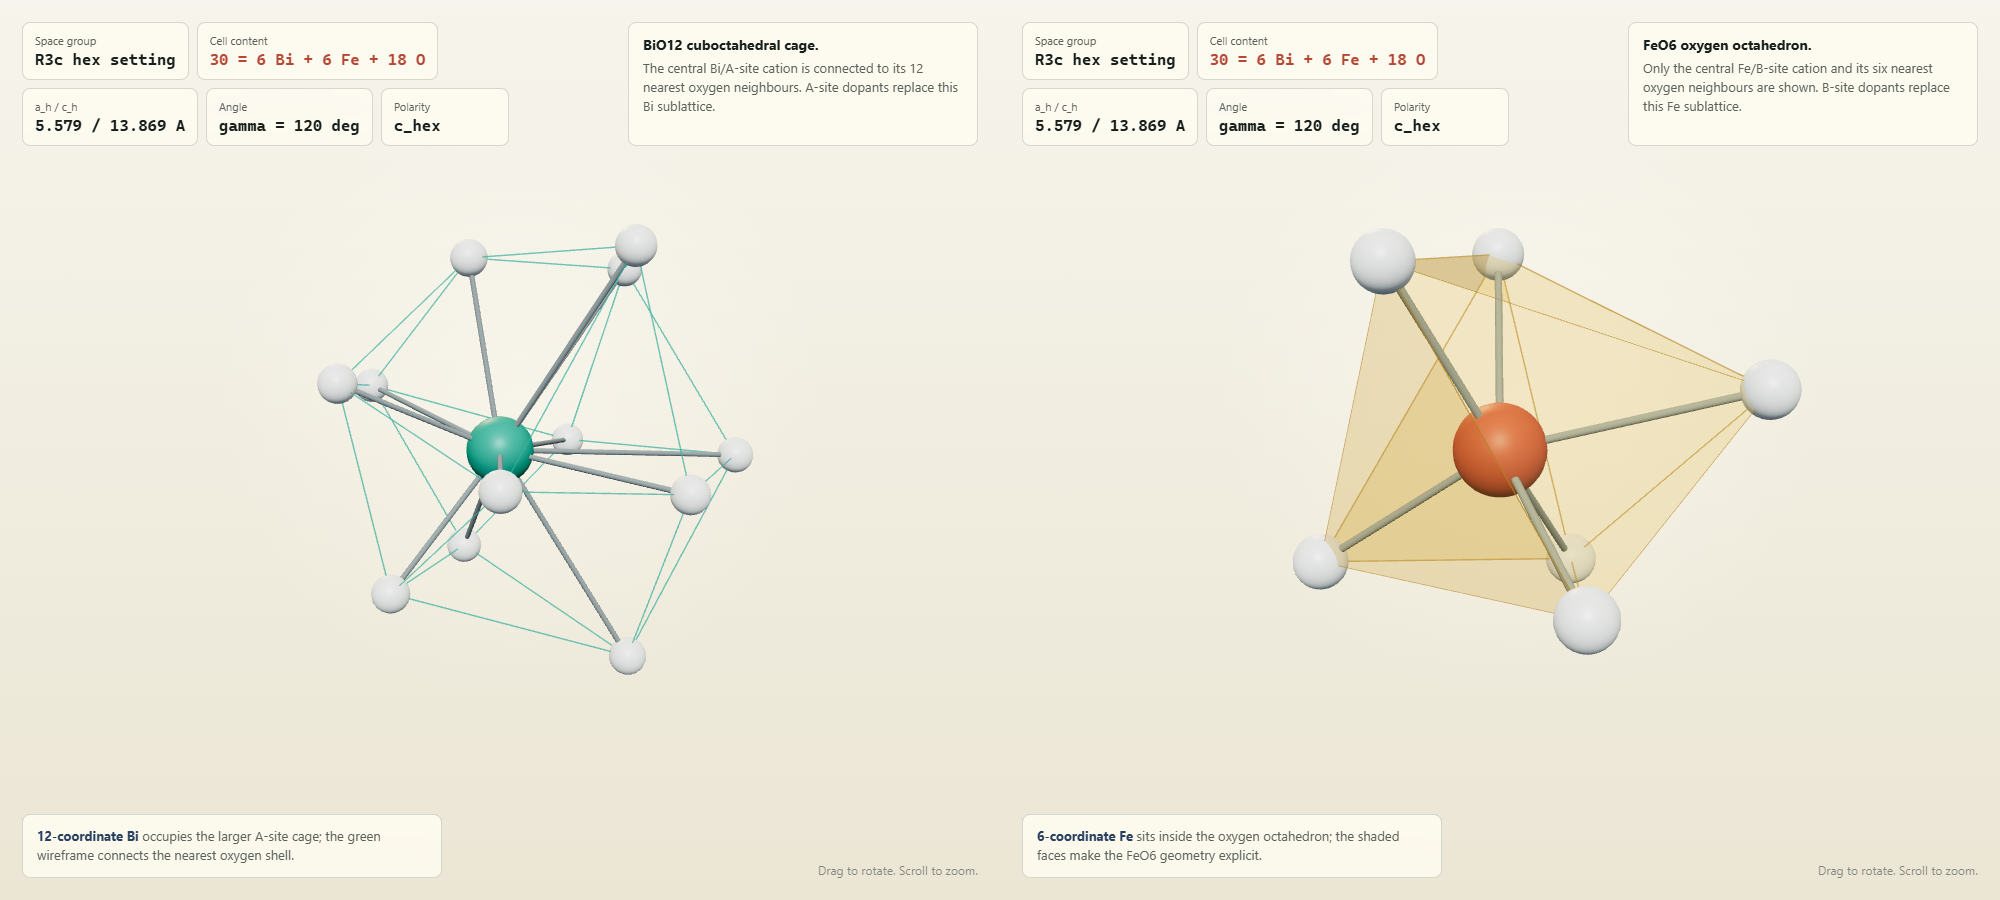
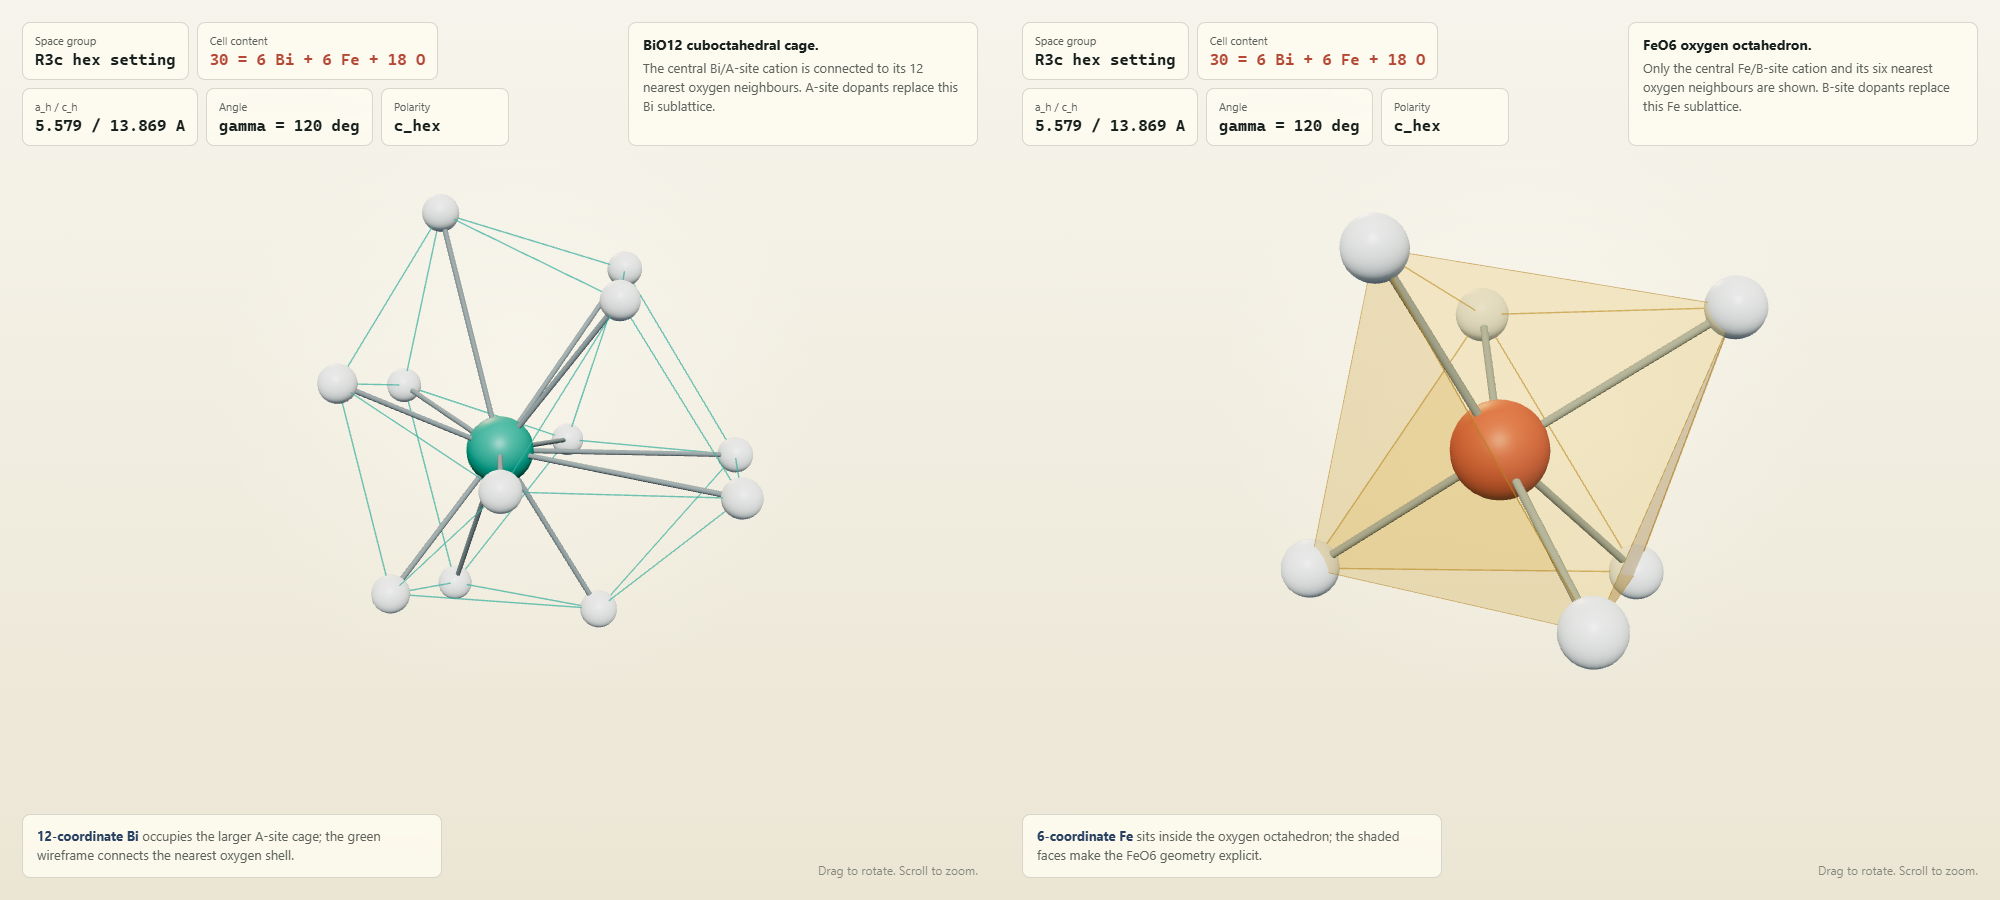
Correct R3c oxygen symmetry and FeO6 geometry

diff --git a/outputs/perovskite-bfo-visualizer.html b/outputs/perovskite-bfo-visualizer.html
@@ -1230,13 +1230,14 @@
       ];
       const records = [];
       sites.forEach((site) => {
+        // General positions for R3c (#161) in hexagonal axes, before R-centering translations.
         const operations = [
           [site.x, site.y, site.z],
           [-site.y, site.x - site.y, site.z],
           [-site.x + site.y, -site.x, site.z],
-          [site.y, site.x, site.z + 0.5],
-          [site.x - site.y, -site.y, site.z + 0.5],
-          [-site.x, -site.x + site.y, site.z + 0.5]
+          [-site.y, -site.x, site.z + 0.5],
+          [-site.x + site.y, site.y, site.z + 0.5],
+          [site.x, site.x - site.y, site.z + 0.5]
         ];
         centering.forEach(([tx, ty, tz]) => operations.forEach(([x, y, z]) => {
           records.push({ kind: site.kind, f: new THREE.Vector3(x + tx, y + ty, z + tz) });
@@ -1507,6 +1508,11 @@
         .reduce((best, atom) => atom.mesh.position.lengthSq() < best.mesh.position.lengthSq() ? atom : best);
       const target = targetRecord.mesh.position.clone();
       const neighbours = periodicOxygenNeighbours(target, count);
+      const physicalScale = model.kind === "hex" || model.kind === "rhom"
+        ? 5.57882 / 3.0
+        : model.kind === "pseudo"
+          ? 3.965 / 3.4
+          : 1;
       makeFocusAtom(kind, kind === "bi" ? 0.23 : 0.21, target);
       neighbours.forEach((position) => {
         makeFocusAtom("o", 0.13, position);
@@ -1530,7 +1536,13 @@
       document.querySelector("#axisLabel").innerHTML = kind === "bi"
         ? "<b>12-coordinate Bi</b> occupies the larger A-site cage; the green wireframe connects the nearest oxygen shell."
         : "<b>6-coordinate Fe</b> sits inside the oxygen octahedron; the shaded faces make the FeO6 geometry explicit.";
-      window.__coordinationStats = { focus: state.focus, neighbours: neighbours.length };
+      const centroid = neighbours.reduce((sum, position) => sum.add(position), new THREE.Vector3()).multiplyScalar(1 / neighbours.length);
+      window.__coordinationStats = {
+        focus: state.focus,
+        neighbours: neighbours.length,
+        distances: neighbours.map((position) => position.distanceTo(target) * physicalScale).sort((a, b) => a - b),
+        centreOffset: centroid.distanceTo(target) * physicalScale
+      };
       window.__sublatticeState = { bi: state.showBi, fe: state.showFe, o: state.showO };
     }
 